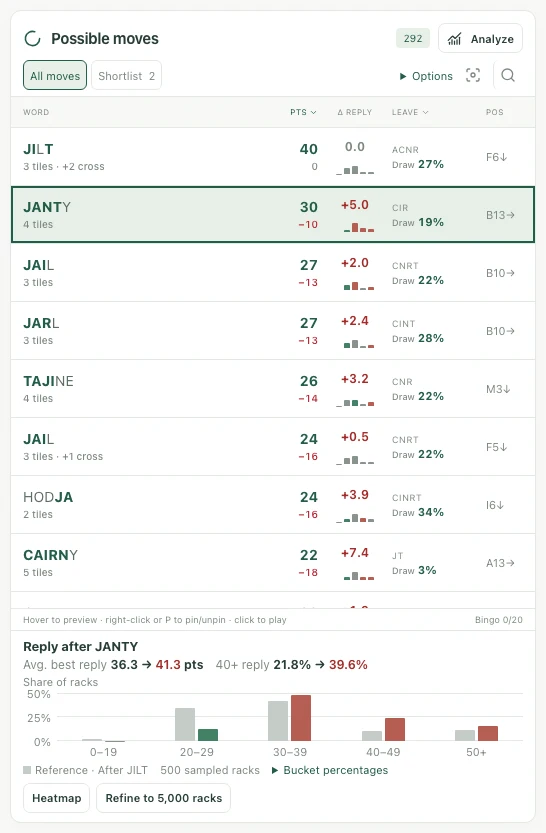
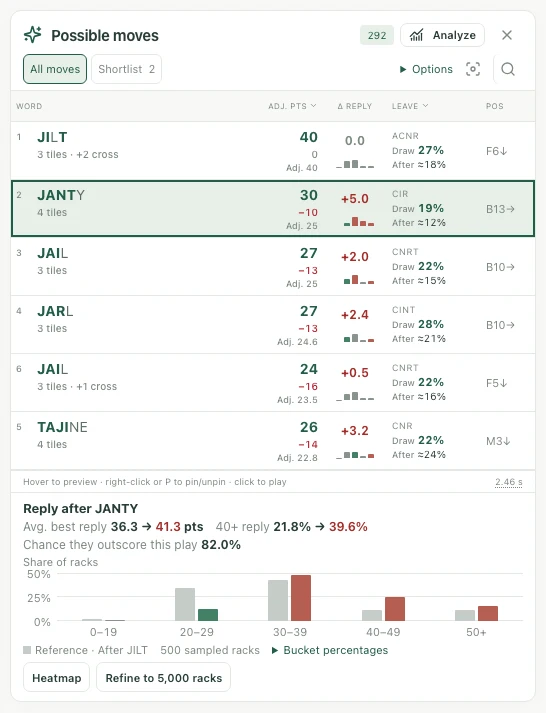
Release Tilemaxx v0.2.0

diff --git a/src/components/ui-guide-figures.ts b/src/components/ui-guide-figures.ts
@@ -21,7 +21,7 @@ export const guideFigures: GuideFigure[] = [
     title: "Game workspace on desktop",
     src: workspace,
     width: 1440,
-    height: 870,
+    height: 898,
     alt: "Practice game with the sidebar, board, rack, and possible moves visible together.",
     labels: [
       {
@@ -37,8 +37,8 @@ export const guideFigures: GuideFigure[] = [
         hint: "Find the game name, tracked score, and word list.",
       },
       {
-        x: 1283,
-        y: 34,
+        x: 1312,
+        y: 36,
         name: "Game options",
         hint: "Edit, duplicate, or archive the current game.",
       },
@@ -62,7 +62,7 @@ export const guideFigures: GuideFigure[] = [
       },
       {
         x: 388,
-        y: 840,
+        y: 858,
         name: "Unseen tiles",
         hint: "Check tiles that could be in the bag or on other racks.",
       },
@@ -83,14 +83,14 @@ export const guideFigures: GuideFigure[] = [
     alt: "A selected JILT move is previewed on the phone board, with the rack to its right and the move list below.",
     labels: [
       {
-        x: 55,
-        y: 50,
+        x: 54,
+        y: 27,
         name: "Sidebar",
         hint: "Tap Open sidebar to find the UI guide and other screens.",
       },
       {
-        x: 155,
-        y: 220,
+        x: 147,
+        y: 222,
         name: "Move preview",
         hint: "The shaded tiles show where the selected play goes.",
       },
@@ -101,13 +101,13 @@ export const guideFigures: GuideFigure[] = [
         hint: "The word and its score are directly below the board.",
       },
       {
-        x: 322,
-        y: 412,
+        x: 290,
+        y: 415,
         name: "Play",
         hint: "Put the previewed move on the board.",
       },
       {
-        x: 323,
+        x: 342,
         y: 172,
         name: "Your rack",
         hint: "The rack moves beside the board while you preview. In an endgame, the opponent’s tiles stack below yours.",
@@ -125,7 +125,7 @@ export const guideFigures: GuideFigure[] = [
     title: "Move list and Reply details",
     src: moves,
     width: 546,
-    height: 833,
+    height: 713,
     alt: "The move list with JANTY selected and the Reply after JANTY box below it.",
     labels: [
       {
@@ -136,19 +136,19 @@ export const guideFigures: GuideFigure[] = [
       },
       {
         x: 182,
-        y: 74,
+        y: 75,
         name: "Move filters",
         hint: "Switch between All moves and Shortlist, or filter by word or square.",
       },
       {
-        x: 432,
-        y: 40,
+        x: 464,
+        y: 37,
         name: "Analyze",
         hint: "Open Move analysis to compare candidates.",
       },
       {
-        x: 379,
-        y: 111,
+        x: 339,
+        y: 105,
         name: "Reply delta",
         hint: "A positive number means a higher-scoring reply for the opponent.",
       },
@@ -159,26 +159,26 @@ export const guideFigures: GuideFigure[] = [
         hint: "An individual suggestion with its score, leave, and position.",
       },
       {
-        x: 460,
-        y: 223,
+        x: 458,
+        y: 222,
         name: "Bingo odds",
         hint: "The draw and board-based chances shown beneath the leave.",
       },
       {
-        x: 155,
-        y: 647,
+        x: 153,
+        y: 508,
         name: "Reply details",
         hint: "The box headed Reply after the selected move.",
       },
       {
-        x: 334,
-        y: 685,
+        x: 332,
+        y: 598,
         name: "Reply distribution",
         hint: "Compare how often each range of opponent scores occurs.",
       },
       {
-        x: 88,
-        y: 798,
+        x: 84,
+        y: 677,
         name: "Reply heatmap",
         hint: "Open a board view of where the opponent’s strongest replies land.",
       },
@@ -188,49 +188,49 @@ export const guideFigures: GuideFigure[] = [
     tab: "Move analysis",
     title: "Move comparison and optimal endgame line",
     src: analysis,
-    width: 516,
-    height: 936,
+    width: 496,
+    height: 916,
     alt: "Two moves compared in an empty-bag position, with the details and optimal line expanded for ZA.",
     labels: [
       {
-        x: 222,
-        y: 81,
+        x: 183,
+        y: 71,
         name: "Analysis candidates",
         hint: "These are the moves selected for comparison.",
       },
       {
-        x: 338,
-        y: 143,
+        x: 306,
+        y: 132,
         name: "Run analysis",
         hint: "Start the comparison. After it runs, this becomes Refine estimates.",
       },
       {
-        x: 242,
-        y: 198,
+        x: 225,
+        y: 189,
         name: "Endgame budget",
         hint: "Set how much work the exact search can do per move.",
       },
       {
-        x: 132,
-        y: 303,
+        x: 129,
+        y: 285,
         name: "Move comparison",
         hint: "Compare the candidates by score, threats, swing, and final result.",
       },
       {
-        x: 356,
-        y: 312,
+        x: 342,
+        y: 295,
         name: "Reference move",
         hint: "The first candidate is the baseline for relative comparisons.",
       },
       {
-        x: 186,
-        y: 700,
+        x: 173,
+        y: 690,
         name: "Move analysis details",
         hint: "Expand a move to see its individual results.",
       },
       {
-        x: 345,
-        y: 775,
+        x: 336,
+        y: 772,
         name: "Optimal endgame line",
         hint: "Read the exact sequence of moves for both players.",
       },
@@ -241,7 +241,7 @@ export const guideFigures: GuideFigure[] = [
     title: "Game scores and tracked move history",
     src: scores,
     width: 654,
-    height: 582,
+    height: 630,
     alt: "The two score totals and a six-turn history with a bingo trophy on TORMENT.",
     labels: [
       {
@@ -252,25 +252,25 @@ export const guideFigures: GuideFigure[] = [
       },
       {
         x: 205,
-        y: 190,
+        y: 231,
         name: "Tracked move history",
         hint: "Open a list of scored turns for both players.",
       },
       {
-        x: 130,
-        y: 306,
+        x: 117,
+        y: 332,
         name: "Turn review",
         hint: "Select a word to replay that turn with its saved board and rack.",
       },
       {
-        x: 372,
-        y: 359,
+        x: 360,
+        y: 405,
         name: "Bingo trophy",
         hint: "Gold and a trophy identify a bingo.",
       },
       {
-        x: 330,
-        y: 537,
+        x: 139,
+        y: 185,
         name: "Review game",
         hint: "Look for missed opportunities across the game.",
       },

diff --git a/AGENTS.md b/AGENTS.md
@@ -11,6 +11,7 @@
 
 ## Verification
 
+- Before every minor release, review all code changes through the release candidate since the last completed full review. Record the reviewed commit range and any outstanding findings.
 - Run `npm run verify` for changes to rules, solving, persistence, UI, imports, or deployment. It runs the tests, type check, and production build, and is the GitHub CI gate.
 - Keep solver, API, sync, and UI tests in the default suite. Add targeted regression coverage for behavior changes. Check changed UI interactions in an isolated browser workspace with test data.
 
